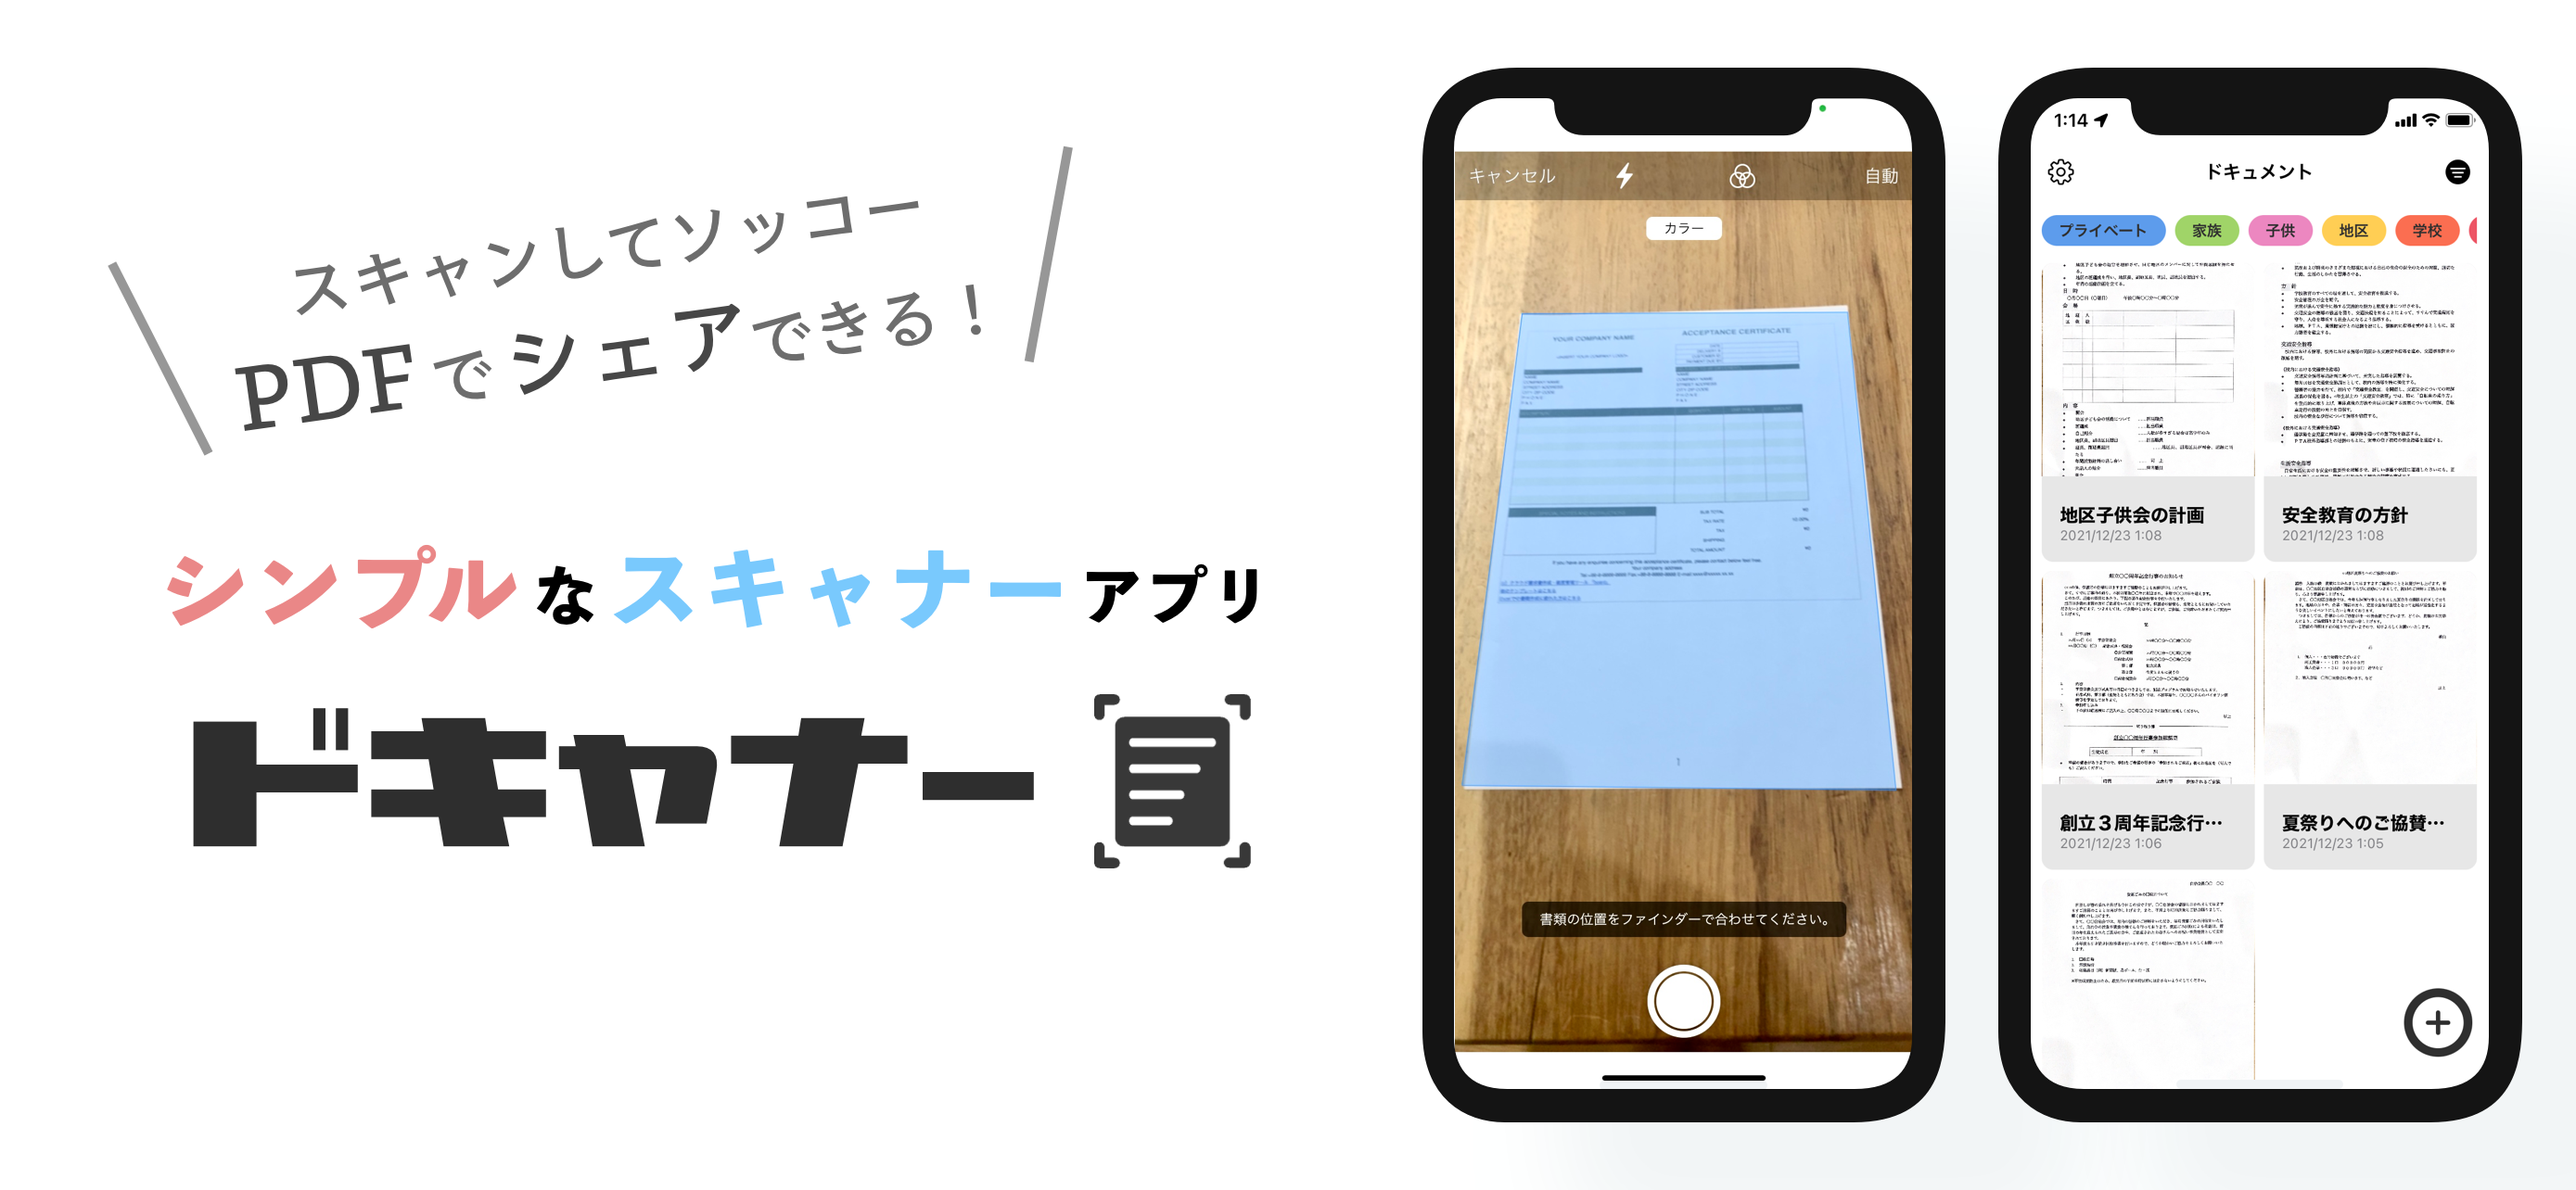
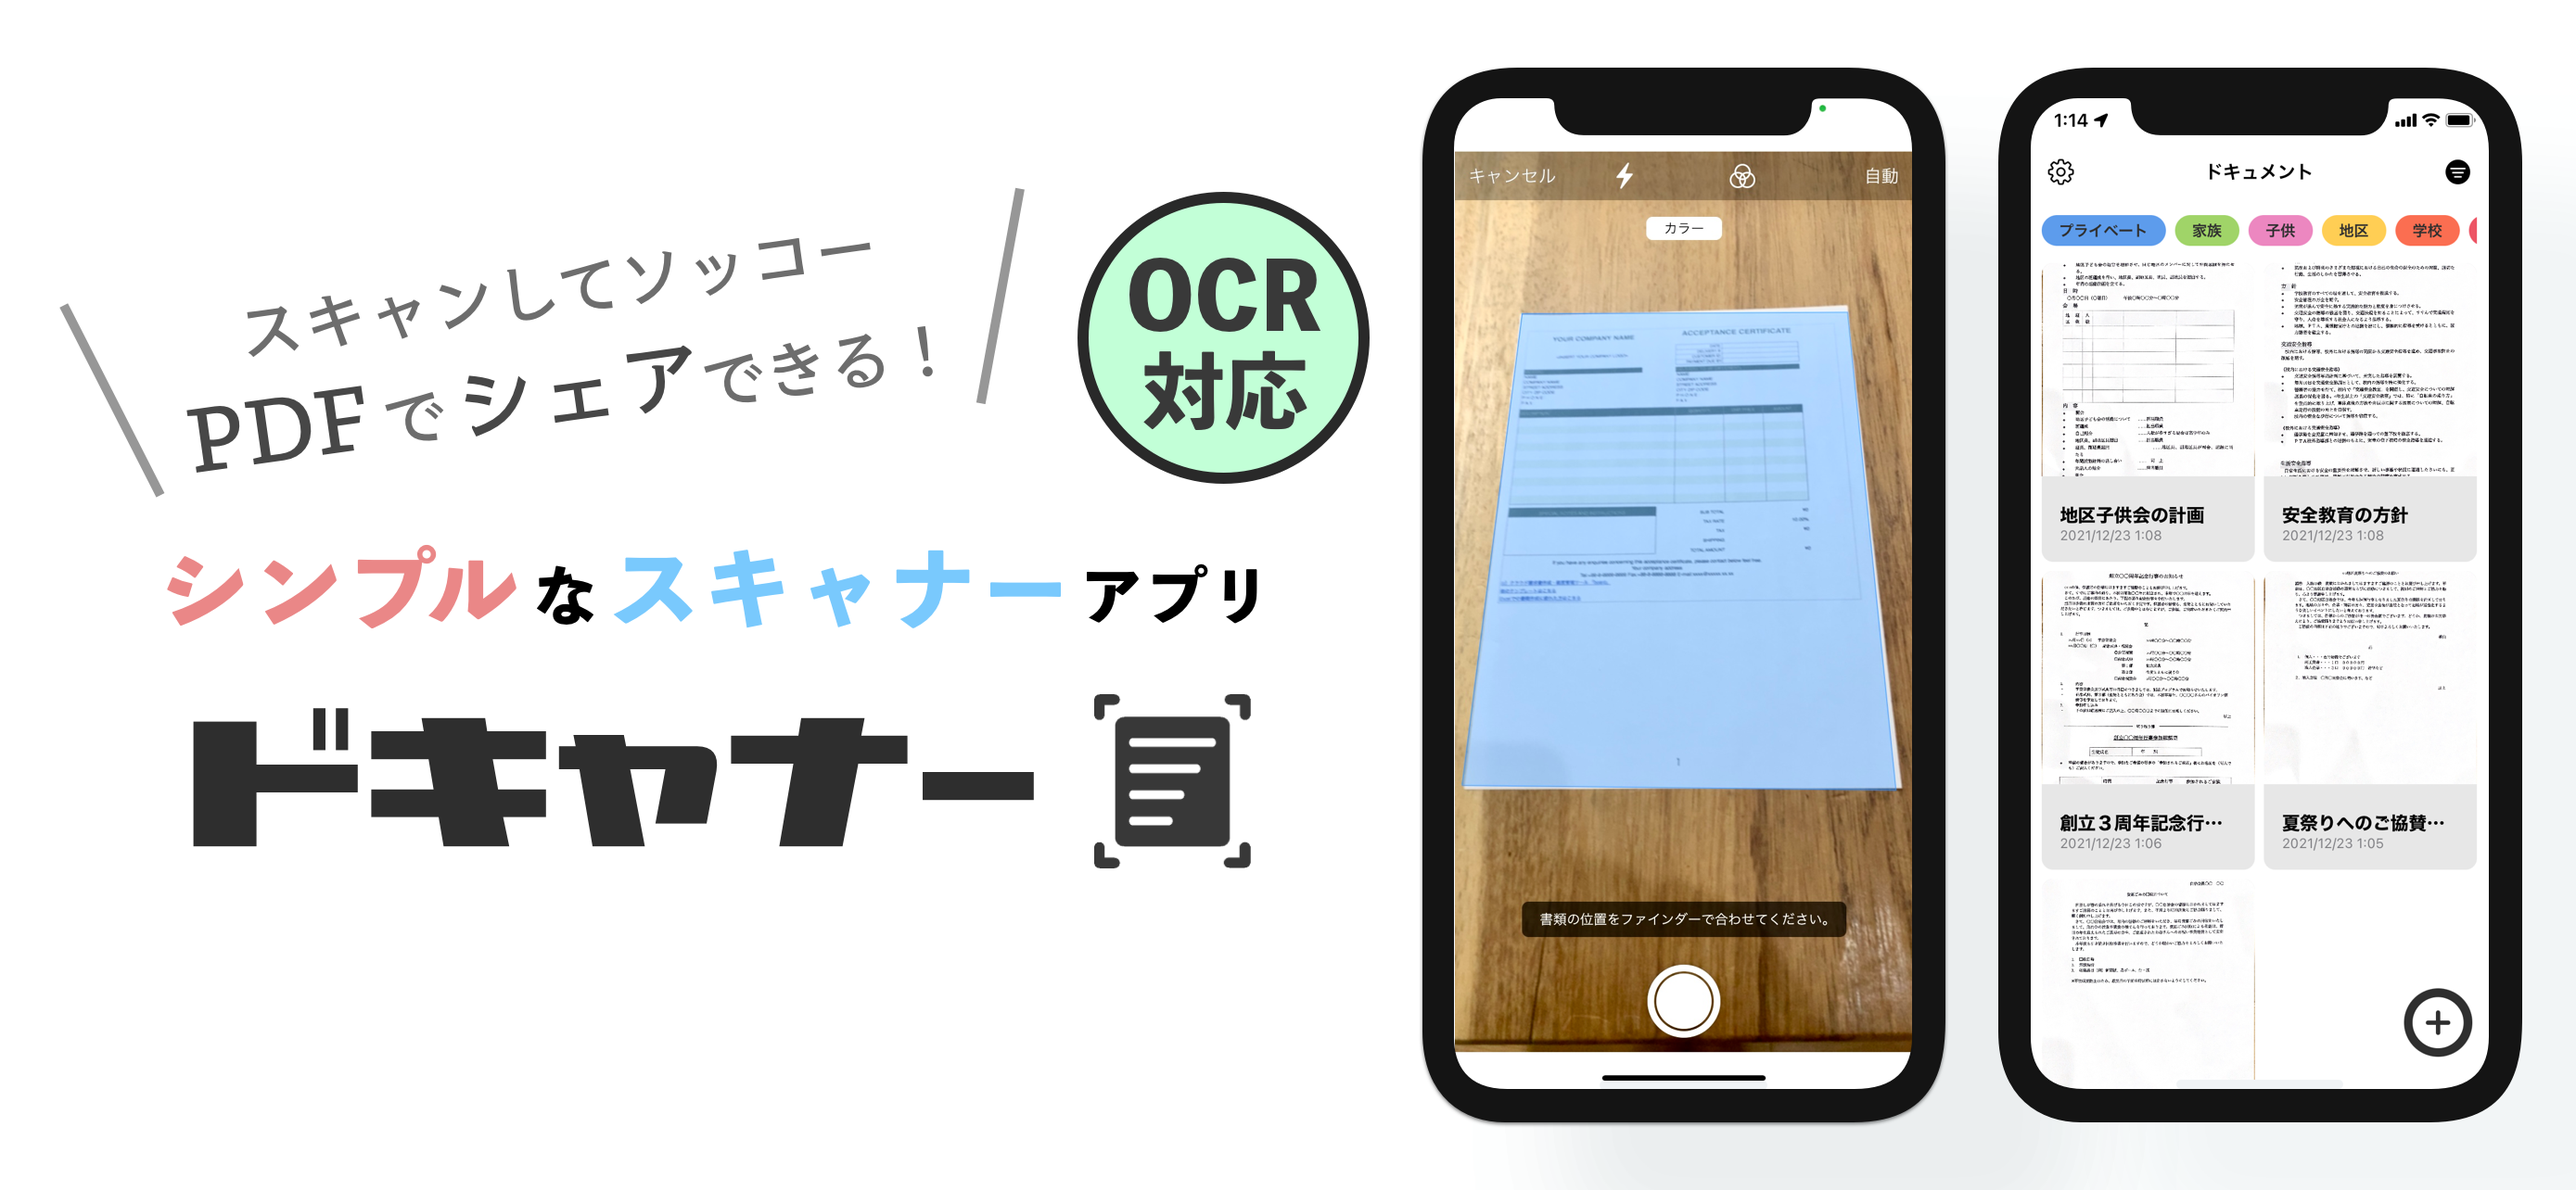
最新バージョンにコメントと画像を差し替え

Changed region(s): [[0.0, 0.1246, 0.5572, 0.405]]

diff --git a/works-docanner.html b/works-docanner.html
@@ -87,12 +87,16 @@
             </p>
             <h3 class="article-info-title">書類管理 / タグ機能</h3>
             <p>
-              - 書類には名前とタグが付けられます<br>
-              - 保存した書類は編集することが可能です<br>
-              - 書類を検索するときにタグをフィルターとして使うことができます<br>
-              - タグには配色を設定することができます<br>
+              - スキャンした書類はアプリ内に保存します<br>
+              - 書類には「書類名」と「タグ」が付けられます<br>
+              - タグは書類を検索するときにフィルターとして利用可能です<br>
+              - スキャンした書類画像をトリミングしたり角度を変更したり編集が可能です<br>
             </p>
-            <br>
+            <h3 class="article-info-title">OCR機能（文字認識）</h3>
+            <p>
+              - スキャンした書類画像から文字を認識し表示します<br>
+              - 認識した文字はクリップボードにコピーしたり、各種サービスにシェアが可能です<br>
+            </p>
             <p class="article-img">
               <img src="img/works-docanner-screen4.png" alt="">
             </p>
